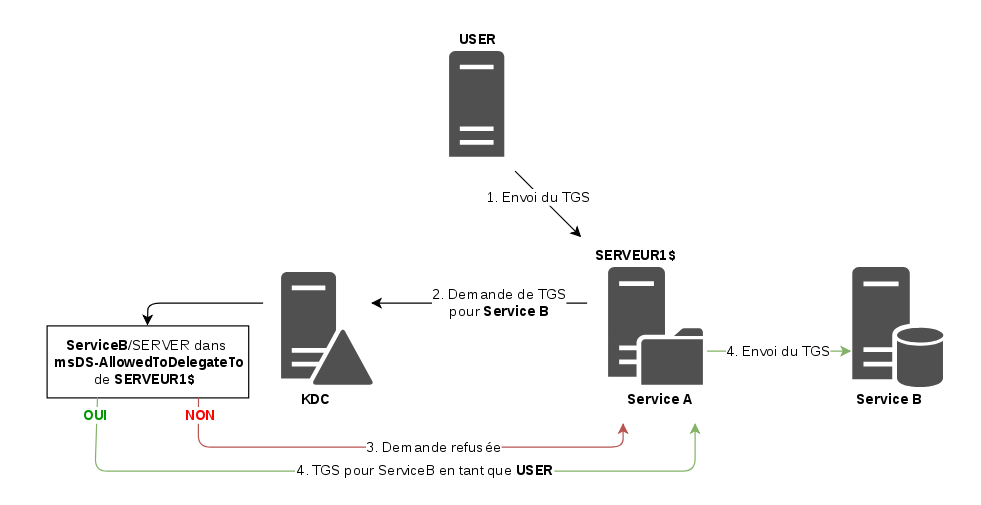
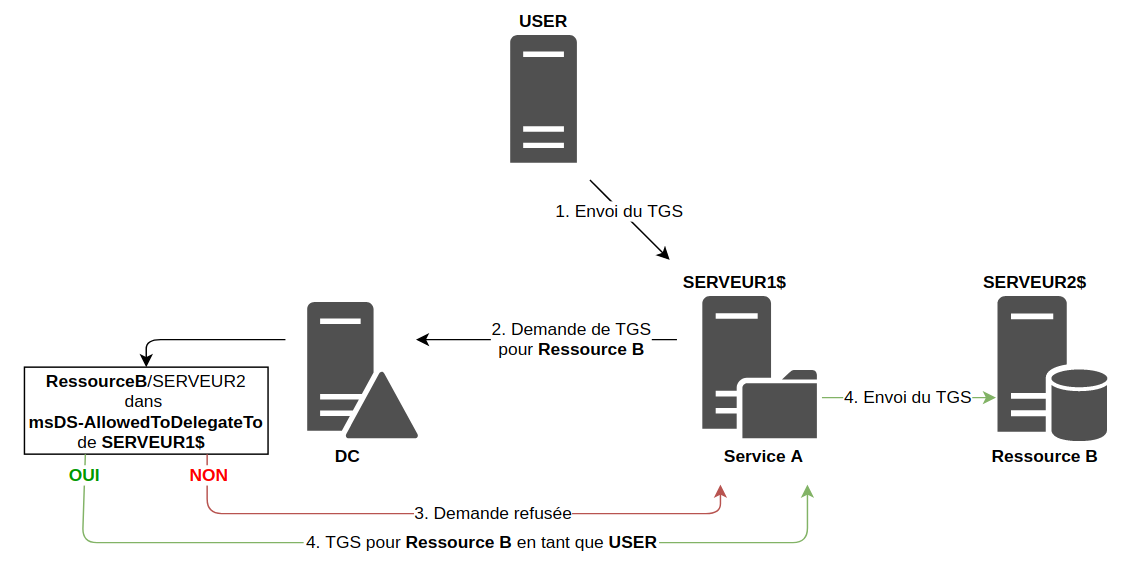
Update article about Delegation

diff --git a/_posts/2019-03-30-unconstrained-delegation.md b/_posts/2019-03-30-unconstrained-delegation.md
@@ -5,11 +5,13 @@ author: "Pixis"
 layout: post
 permalink: /constrained-unconstrained-delegation/
 disqus_identifier: 0000-0000-0000-00ab
-cover: assets/uploads/2019/02/impersonation.png
+cover: assets/uploads/2019/02/delegation_banner.png
 description: "Au sein d'un Active Directory, des services peuvent être utilisés par des utilisateurs. Il arrive parfois que ces services doivent en contacter d'autres, au nom de l'utilisateur, comme un service web pourrait avoir besoin de contacter un serveur de fichiers. Afin d'autoriser un service à accéder à un autre service au nom de l'utilisateur, une solution a été mise en place : La délégation Kerberos."
 tags:
   - "Active Directory"
   - Windows
+translation:
+  - en
 ---
 
 Au sein d'un Active Directory, des services peuvent être utilisés par des utilisateurs. Il arrive parfois que ces services doivent en contacter d'autres, au nom de l'utilisateur, comme un service web pourrait avoir besoin de contacter un serveur de fichiers. Afin d'autoriser un service à accéder à un autre service **au nom de l'utilisateur**, une solution a été mise en place (introduite à partir de Windows Server 2000) pour répondre à ce besoin : **La délégation Kerberos.**
@@ -34,9 +36,9 @@ La possibilité de relayer des identifiants peut être donnée à une machine ou
 
 Il existe aujourd'hui trois manières d'autoriser une machine ou un compte de service de prendre la place d'un utilisateur pour communiquer avec un ou plusieurs autre(s) service(s) : La **Unconstrained Delegation**, la **Constrained Delegation** et la **Resource Based Constrained Delegation**.
 
-### Kerberos Unconstrained Delegation - KUD
+### Kerberos Unconstrained Delegation
 
-Dans le cas d'une **Unconstrained Delegation** (KUD), le serveur ou le compte de service qui se voit attribuer ce droit est en mesure de se faire passer pour l'utilisateur pour communiquer avec **n'importe quel service** sur **n'importe quelle machine**.
+Dans le cas d'une **Unconstrained Delegation**, le serveur ou le compte de service qui se voit attribuer ce droit est en mesure de se faire passer pour l'utilisateur pour communiquer avec **n'importe quel service** sur **n'importe quelle machine**.
 
 C'est historiquement le seul choix qu'il y avait lors de l'instauration du principe de délégation, mais il a été complété par le principe de la **Constrained Delegation**.
 
@@ -47,9 +49,9 @@ Voici un exemple, dans mon lab, d'une machine qui est en **Unconstrained Delegat
 
 [![Unconstrained Delegation](/assets/uploads/2019/02/unconstrained_delegation.png)](/assets/uploads/2019/02/unconstrained_delegation.png)
 
-### Kerberos Constrained Delegation - KCD
+### Kerberos Constrained Delegation
 
-Si une machine ou un compte de service possède le flag **Constrained Delegation** (KCD), alors une liste de services autorisés sera associée à ce droit. Par exemple, dans le cas du serveur web de l'introduction, la machine hébergeant le serveur web aura le drapeau **KCD** avec comme précision que ce serveur ne peut relayer les informations de l'utilisateur qu'au service `CIFS` du serveur `SERVEUR01`.
+Si une machine ou un compte de service possède le flag **Constrained Delegation**, alors une liste de services autorisés sera associée à ce droit. Par exemple, dans le cas du serveur web de l'introduction, la machine hébergeant le serveur web aura le drapeau **Constrained Delegation** avec comme précision que ce serveur ne peut relayer les informations de l'utilisateur qu'au service `CIFS` du serveur `SERVEUR01`.
 
 [![Constrained Delegation](/assets/uploads/2019/02/constrained_delegation_schema.png)](/assets/uploads/2019/02/constrained_delegation_schema.png)
 
@@ -61,47 +63,42 @@ Dans mon lab, le serveur web est `WEB-SERVER-01` et celui qui possède le partag
 
 [![Delegation CIFS](/assets/uploads/2019/02/delegation_cifs.png)](/assets/uploads/2019/02/delegation_cifs.png)
 
-**\<note\>**
 
-De ma compréhension, le statut délégation ne peut être appliqué qu'à une machine ou un utilisateur de service (i.e. ayant au moins un attribut [SPN](/service-principal-name-spn)).
-- Dans le premier cas (Machine), cela implique que **tous** les services hébergés sur la machine peuvent relayer les informations de l'utilisateur.
-- Dans le deuxième cas (compte de service), cela veut dire que quel que soit le serveur sur lequel tournent les services exécutés par ce compte de service, ils -- ces services -- auront tous la possibilité de délégation.
+### Resource Based Kerberos Constrained Delegation - RBCD
 
-Je trouve ce comportement étonnant, j'aurais pensé qu'il était possible de décider que seul un service précis sur une machine précise pouvait relayer les informations de l'utilisateur, mais il me semble, en l'état, que cette granularité n'existe pas.
-
-Si ma compréhension est incorrecte, n'hésitez pas à me le remonter dans les commentaires ou sur [twitter](https://twitter.com/HackAndDo).
-
-**\</note\>**
-
-### Resource Based Kerberos Constrained Delegation - RBKCD
-
-Enfin, nous avons le cas de la **Resource Based Constrained Delegation** (RBKCD). Apparue avec Windows Server 2012, cette solution permet de palier à quelques problèmes liés à la **KCD** (Responsabilité, délégation inter-domaines, ...). Sans trop aller dans les détails, la responsabilité de la délégation est déplacée. Alors que dans **KCD**, c'est au niveau du serveur qui délègue qu'on indique les [SPN](/service-principal-name-spn) autorisés, dans le cas du **RBKCD**, c'est au niveau des services finaux qu'on indique la liste des services qui peuvent communiquer avec eux via délégation. Ainsi, le schéma est le suivant :
+Enfin, nous avons le cas de la **Resource Based Constrained Delegation** (RBCD). Apparue avec Windows Server 2012, cette solution permet de palier à quelques problèmes liés à la délégation contrainte classique (Responsabilité, délégation inter-domaines, ...). Sans trop aller dans les détails, la responsabilité de la délégation est déplacée. Alors que dans délégation contrainte, c'est au niveau du serveur qui délègue qu'on indique la liste des [SPN](/service-principal-name-spn) autorisés, dans le cas du **RBCD**, c'est au niveau des services finaux qu'on indique la liste des services qui peuvent communiquer avec eux via délégation. Ainsi, le schéma est le suivant :
 
 [![Resource Based Constrained Delegation](/assets/uploads/2019/02/resource_based_constrained_delegation_schema.png)](/assets/uploads/2019/02/resource_based_constrained_delegation_schema.png)
 
-La responsabilité est déplacée, c'est au niveau du serveur qui reçoit les connexions avec délégation que se trouve l'information de si oui ou non cette délégation est acceptée.
+La responsabilité est déplacée, c'est au niveau de la ressource qui reçoit les connexions avec délégation que se trouve l'information de si oui ou non cette délégation est acceptée.
 
-En d'autres termes, c'est le service final qui dit "j'autorise cette liste de compte [...] à s'authentifier chez moi au nom d'un utilisateur".
+En d'autres termes, c'est la ressource finale qui dit "j'autorise cette liste de comptes [...] à s'authentifier chez moi au nom d'un utilisateur".
 
 ## Détails techniques
 
-Maintenant que le principe est compris (du moins je l'espère), nous allons détailler un peu ce process. Concrètement, comment est-ce qu'une machine ou un compte peut se faire passer pour un utilisateur auprès d'un service ? C'est ce que nous allons voir maintenant. Les détails entre les différentes techniques sont relativement différents, c'est pourquoi chacune d'entre elle sera expliquée séparemment. Accrochez vous, *it's gonna get dirty*.
+Maintenant que le principe est compris (du moins je l'espère), nous allons détailler un peu ce process. Concrètement, comment est-ce qu'une machine ou un compte peut se faire passer pour un utilisateur auprès d'une ressource ? C'est ce que nous allons voir maintenant. Les détails entre les différentes techniques sont relativement différents, c'est pourquoi chacune d'entre elle sera expliquée séparemment. Accrochez vous, *it's gonna get dirty*.
 
-### Kerberos Unconstrained Delegation - KUD
+### Kerberos Unconstrained Delegation 
 
 Comme nous l'avons vu, dans ce cas, le serveur ou le compte de service peut s'authentifier au nom de l'utilisateur auprès de n'importe quel autre service. Pour que cela soit possible, il faut deux prérequis :
 
-* Le premier est que le compte qui veut déléguer une authentification possède le drapeau `ADS_UF_TRUSTED_FOR_DELEGATION` présent dans [ADS_USER_FLAG_ENUM](https://docs.microsoft.com/en-us/windows/desktop/api/iads/ne-iads-ads_user_flag). Pour pouvoir changer cette information, il faut avoir le droit `SeEnableDelegationPrivilege` qui est la plupart du temps seulement existant pour les administrateurs de domaine. Voici comment ce drapeau est placé sur le compte (machine ou compte de service):
+* Le premier est que le compte qui veut déléguer une authentification possède le drapeau `TRUSTED_FOR_DELEGATION` dans la liste des drapeaux [UAC - User Account Control](https://docs.microsoft.com/en-us/windows/win32/adschema/a-useraccountcontrol?redirectedfrom=MSDN). Pour pouvoir changer cette information sur un compte de service, il faut avoir le droit `SeEnableDelegationPrivilege` qui est la plupart du temps seulement existant pour les administrateurs de domaine. Voici comment ce drapeau est placé sur le compte (machine ou compte de service):
 
 [![Unconstrained Delegation](/assets/uploads/2019/02/unconstrained_delegation.png)](/assets/uploads/2019/02/unconstrained_delegation.png)
 
+Une fois placé, nous pouvons voir les drapeaux UAC et constater que `TRUSTED_FOR_DELEGATION` est bien présent.
 
-* Le deuxième est que le compte utilisateur qui va être relayé soit effectivement "relayable". Pour cela, il **ne faut pas** faut que le drapeau [ADS_UF_NOT_DELEGATED](https://docs.microsoft.com/en-us/windows/desktop/api/iads/ne-iads-ads_user_flag) soit positionné. Par défaut, aucun compte de l'AD n'a ce drapeau de positionné, ils sont donc tous "relayables".
+[![Unconstrained Delegation UAC](/assets/uploads/2020/04/UAC_UD.png)](/assets/uploads/2020/04/UAC_UD.png)
 
-Concrètement, lors des échanges avec le contrôleur de domaine tels que décrits dans l'article [Kerberos en Active Directory](/kerberos), lorsque l'utilisateur fait une demande de TGS ([KRB_TGS_REQ](/kerberos/#krb_tgs_req)), il précisera le [SPN](/service-principal-name-spn) du service qu'il souhaite consommer. C'est à ce moment que le contrôleur de domaine va chercher les deux prérequis :
 
-* Est-ce que le drapeau `ADS_UF_TRUSTED_FOR_DELEGATION` est positionné dans les attributs du compte associé au [SPN](/service-principal-name-spn) 
-* Est-ce que le drapeau `ADS_UF_NOT_DELEGATED` n'est **pas** positionné pour l'utilisateur qui fait la demande
+* Le deuxième est que le compte utilisateur qui va être relayé soit effectivement "relayable". Pour cela, il **ne faut pas** faut que le drapeau [NOT_DELEGATED](https://docs.microsoft.com/en-us/windows/desktop/api/iads/ne-iads-ads_user_flag) soit positionné. Par défaut, aucun compte de l'AD n'a ce drapeau de positionné, ils sont donc tous "relayables".
+
+[![Not delegated flag unset](/assets/uploads/2020/04/UAC_user_not_delegated.png)](/assets/uploads/2020/04/UAC_user_not_delegated.png)
+
+Concrètement, lors des échanges avec le contrôleur de domaine tels que décrits dans l'article [Kerberos en Active Directory](/kerberos), lorsque l'utilisateur fait une demande de TGS ([KRB_TGS_REQ](/kerberos/#krb_tgs_req)), il précisera le [SPN](/service-principal-name-spn) du service qu'il souhaite utiliser. C'est à ce moment que le contrôleur de domaine va chercher les deux prérequis :
+
+* Est-ce que le drapeau `TRUSTED_FOR_DELEGATION` est positionné dans les attributs du compte associé au [SPN](/service-principal-name-spn) 
+* Est-ce que le drapeau `NOT_DELEGATED` n'est **pas** positionné pour l'utilisateur qui fait la demande
 
 Si les deux prérequis sont vérifiés, alors le contrôleur de domaine va répondre à l'utilisateur avec un [KRB_TGS_REQ](/kerberos/#krb_tgs_req) contenant les informations classiques, mais il va également intégrer dans sa réponse **une copie du TGT** de l'utilisateur, ainsi qu'une nouvelle clé de session associée.
 
@@ -111,7 +108,7 @@ Une fois en possession de ces éléments, l'utilisateur va continuer le processu
 
 [![TGT Memory](/assets/uploads/2019/02/tgt_memory.png)](/assets/uploads/2019/02/tgt_memory.png)
 
-En effet, maintenant en possession d'une copie du TGT de l'utilisateur ainsi que d'une clé de session valide, le service peut s'authentifier auprès de n'importe quel autre service au nom de l'utilisateur en faisant une demande de TGS au contrôleur de domaine, en lui fournissant ce TGT et en chiffrant un authentifiant avec la clé de session. C'est le principe de la **Unconstrained Delegation**.
+En effet, maintenant en possession d'une copie du TGT de l'utilisateur ainsi que d'une clé de session valide, le service peut s'authentifier auprès de n'importe quel autre service au nom de l'utilisateur en faisant une demande de TGS au contrôleur de domaine, en lui fournissant ce TGT et en chiffrant un authentifiant avec la clé de session. C'est le principe de la délégation sans contrainte, ou **Unconstrained Delegation**.
 
 Voici un schéma récapitulatif :
 
@@ -120,31 +117,44 @@ Voici un schéma récapitulatif :
 
 ### Kerberos Constrained Delegation
 
-Pour la **Constrained Delegation**, une liste de [SPN](/service-principal-name-spn) ou de comptes autorisés sera fournie pour indiquer les services/comptes acceptés pour la délégation. De ce fait, le processus n'est pas le même. Le service concerné ne sera pas en possession du TGT de l'utilisateur, sinon il n'y a aucun moyen de contrôler les authentifications du service. Un mécanisme différent est utilisé.
+Pour la délégation contrainte, ou **Constrained Delegation**, une liste de [SPN](/service-principal-name-spn) est fournie pour indiquer les ressources acceptées pour la délégation. De ce fait, le processus n'est pas le même. Le service concerné ne sera pas en possession du TGT de l'utilisateur, sinon il n'y a aucun moyen de contrôler ses authentifications. Un mécanisme différent est utilisé.
 
-Mettons nous dans le cas où l'utilisateur s'authentifie auprès du `Service A` puis que ce `Service A` doit s'authentifier auprès du `Service B` en tant que l'utilisateur.
+Mettons nous dans le cas où l'utilisateur s'authentifie auprès du `Service A` puis que ce `Service A` doit s'authentifier auprès de la ressource `Ressource B` en tant que l'utilisateur.
 
-L'utilisateur fait une requête de TGS, puis l'envoie au `Service A`. Ce service devant s'authentifier en tant que l'utilisateur auprès de `Service B`, il va demander un TGS au KDC au nom de l'utilisateur. Cette demande est régie par l'extension [S4U2Proxy](https://docs.microsoft.com/en-us/openspecs/windows_protocols/ms-sfu/bde93b0e-f3c9-4ddf-9f44-e1453be7af5a). Pour indiquer au contrôleur de domaine qu'il veut s'authentifier au nom de quelqu'un d'autre, deux attributs seront définis dans la demande de ticket [KRB_TGS_REQ](/kerberos/#krb_tgs_req) :
+L'utilisateur fait une requête de TGS, puis l'envoie au `Service A`. Ce service devant s'authentifier en tant que l'utilisateur auprès de `Ressource B`, il va demander un TGS au contrôleur de domaine au nom de l'utilisateur. Cette demande est régie par l'extension [S4U2Proxy](https://docs.microsoft.com/en-us/openspecs/windows_protocols/ms-sfu/bde93b0e-f3c9-4ddf-9f44-e1453be7af5a). Pour indiquer au contrôleur de domaine qu'il veut s'authentifier au nom de quelqu'un d'autre, deux attributs seront définis dans la demande de ticket [KRB_TGS_REQ](/kerberos/#krb_tgs_req) :
 
-* le champ `additional-tickets`, d'habitude vide, doit cette fois contenir le TGS de l'utilisateur en question (sous condition que le drapeau `ADS_UF_NOT_DELEGATED` ne soit **pas** positionné pour l'utilisateur qui fait la demande. Si c'était le cas, le TGS de l'utilisateur ne serait pas `forwardable`, et le contrôleur de domaine ne l'accepterait pas dans la suite du processus)
-* Le drapeau [cname-in-addl-tkt](https://docs.microsoft.com/en-us/openspecs/windows_protocols/ms-sfu/17b9af82-d45a-437d-a05c-79547fe969f5), qui doit être positionné pour indiquer au DC qu'il ne doit pas utiliser les informations du serveur, mais celle du ticket présent dans `additional-tickets`, c'est à dire les informations de l'utilisateur pour lequel le service veut se faire passer.
+* le champ `additional-tickets`, d'habitude vide, doit cette fois contenir le TGS de l'utilisateur en question (sous condition que le drapeau `NOT_DELEGATED` ne soit **pas** positionné pour l'utilisateur qui fait la demande. Si c'était le cas, le TGS de l'utilisateur ne serait pas `forwardable`, et le contrôleur de domaine ne l'accepterait pas dans la suite du processus)
+* Le drapeau [cname-in-addl-tkt](https://docs.microsoft.com/en-us/openspecs/windows_protocols/ms-sfu/17b9af82-d45a-437d-a05c-79547fe969f5), qui doit être positionné pour indiquer au contrôleur de domaine qu'il ne doit pas utiliser les informations du serveur, mais celles du ticket présent dans `additional-tickets`, c'est à dire les informations de l'utilisateur pour lequel le service veut se faire passer.
 
-C'est lors de cette demande que le contrôleur de domaine, en voyant ces informations, va vérifier que `Service A` a le droit de s'authentifier auprès de `Service B` au nom de l'utilisateur.
+C'est lors de cette demande que le contrôleur de domaine, en voyant ces informations, va vérifier que `Service A` a le droit de s'authentifier auprès de `Ressource B` au nom de l'utilisateur.
 
 #### Constrained Delegation - Classique
 
-Dans le cas classique de **Constrained Delegation** (donc quand l'information est située au niveau de `Service A`), cette information est présente dans l'attribut [msDS-AllowedToDelegateTo](https://docs.microsoft.com/en-us/openspecs/windows_protocols/ms-ada2/86261ca1-154c-41fb-8e5f-c6446e77daaa) **de l'objet (compte) demandeur**, donc de `Service A`, attribut qui spécifie la liste des [SPN](/service-principal-name-spn) autorisés pour la délégation. Par exemple ici l'attribut `msDS-AllowedToDelegateTo` contiendra `cifs/WEB-SERVER-02`.
+Dans le cas classique de **Constrained Delegation** (donc quand l'information est située au niveau de `Service A`), cette information est présente dans l'attribut [msDS-AllowedToDelegateTo](https://docs.microsoft.com/en-us/openspecs/windows_protocols/ms-ada2/86261ca1-154c-41fb-8e5f-c6446e77daaa) **de l'objet (compte) demandeur**, donc de `Service A`, attribut qui spécifie la liste des [SPN](/service-principal-name-spn) autorisés pour la délégation.
 
 [![Delegation CIFS](/assets/uploads/2019/02/delegation_cifs.png)](/assets/uploads/2019/02/delegation_cifs.png)
 
-Si le [SPN](/service-principal-name-spn) cible est bien présent, alors le KDC renvoie un TGS valide, avec le nom de l'utilisateur, pour le service demandé. Voici un schéma récapitulatif :
+Par exemple ici l'attribut `msDS-AllowedToDelegateTo` contiendra `cifs/WEB-SERVER-02`.
+
+[![allowedToDelegateTo](/assets/uploads/2020/04/allowedToDelegateTo.png)](/assets/uploads/2020/04/allowedToDelegateTo.png)
+
+
+Si le [SPN](/service-principal-name-spn) cible est bien présent, alors le contrôleur de domaine renvoie un TGS valide, avec le nom de l'utilisateur, pour le service demandé. Voici un schéma récapitulatif :
 
 [![Constrained Delegation Detailed](/assets/uploads/2019/02/constrained_delegation_schema_detailed.png)](/assets/uploads/2019/02/constrained_delegation_schema_detailed.png)
 
 
 #### Constrained Delegation - Resource Based
 
-Le KDC va cette fois aller voir les attributs de **Service B** (et non plus de `Service A`). Il va vérifier que le compte associé à `Service A` est bien présent dans l'attribut [msDS-AllowedToActOnBehalfOfOtherIdentity](https://docs.microsoft.com/en-us/openspecs/windows_protocols/ms-ada2/cea4ac11-a4b2-4f2d-84cc-aebb4a4ad405) du compte lié à `Service B`.
+Le contrôleur de domaine va cette fois aller voir les attributs de **Ressource B** (et non plus de `Service A`). Il va vérifier que le compte associé à `Service A` est bien présent dans l'attribut [msDS-AllowedToActOnBehalfOfOtherIdentity](https://docs.microsoft.com/en-us/openspecs/windows_protocols/ms-ada2/cea4ac11-a4b2-4f2d-84cc-aebb4a4ad405) du compte lié à `Ressource B`.
+
+Pour mettre en place de la délégation sans contrainte basée sur une ressource, il faut le faire via Powershell.
+
+[![Set RBCD](/assets/uploads/2020/04/set_rbcd.png)](/assets/uploads/2020/04/set_rbcd.png)
+
+Nous ajoutons `WEB-SERVER-01` à la liste de confiance de `WEB-SERVER-02`. Le contenu de l'attribut **msDS-AllowedToActOnBehalfOfOtherIdentity** est alors mis à jour.
+
+Voici le schéma récapitulant le fonctionnement de RBCD.
 
 [![Resource Based Constrained Delegation Detailed](/assets/uploads/2019/02/resource_based_constrained_delegation_schema_detailed.png)](/assets/uploads/2019/02/resource_based_constrained_delegation_schema_detailed.png)
 
@@ -156,24 +166,29 @@ Si vous êtes encore là et que vous avez bien suivi, vous aurez remarqué que n
 
 C'est pourquoi il y a une étape supplémentaire, possible grâce à l'extension [S4U2Self](https://docs.microsoft.com/en-us/openspecs/windows_protocols/ms-sfu/02636893-7a1f-4357-af9a-b672e3e3de13), que `Service A` doit effectuer. Cette étape lui permet d'obtenir un TGS pour un utilisateur **choisi arbitrairement**. Pour cela, il effectue une demande de TGS classique ([KRB_TGS_REQ](/kerberos/#krb_tgs_req)) sauf qu'au lieu de mettre son nom à lui dans le bloc `PA-FOR-USER` (présent dans la partie préauthentification), il met le nom d'un utilisateur **qu'il choisit**.
 
-Evidemment, on pourrait croire que c'est une capacité très puissante et dangereuse puisqu'en fait, pour tous services `S` et `T` pour lesquels il y aurait une délégation possible de `S` vers `T`, le `Service S` pourrait se faire passer pour n'importe quel utilisateur auprès de `Service T`. Heureusement, ce n'est pas le cas. En effet, si le drapeau [ADS_UF_TRUSTED_TO_AUTHENTICATE_FOR_DELEGATION](https://docs.microsoft.com/en-us/windows/desktop/api/iads/ne-iads-ads_user_flag) n'est pas positionné sur l'objet associé au `Service S`, alors le ticket qu'il récupèrera ne sera pas tranférable (*forwardable*) et ne pourra donc pas être utilisé pour une délégation contrainte classique. Il existe un cas particulier pour la délégation Resource-Based, dont nous parlerons dans un autre article.
+Cette capacité à gérer une **transition de protocole** n'est acceptée par le contrôleur de domaine que si elle a explicitement été accordée au compte de service voulant gérer cette délégation. C'est ici, dans la gestion des délégation, qu'un administrateur peut choisir une délégation contrainte en utilisant uniquement Kerberos, donc sans transition de protocole, ou pouvant utiliser n'importe quel protocole, autorisant ainsi la **transition de protocole**.
 
-Pour que le compte puisse avoir ce drapeau, il faut le préciser ici dans l'interface graphique :
+[![Protocol transition](/assets/uploads/2020/04/protocol_transition.png)](/assets/uploads/2020/04/protocol_transition.png)
 
-[![Drapeau S4U2Self](/assets/uploads/2019/02/s4u2self_gui.png)](/assets/uploads/2019/02/s4u2self_gui.png)
+Dans le premier cas, le drapeau **TRUSTED_FOR_DELEGATION** qui est positionné sur le compte, et le service ne peut que relayer les authentification kerberos. Il ne peut pas utiliser l'extension S4U2Self pour créer un ticket factice.
 
-Attention, le schéma récapitulatif se complique, mais j'espère qu'il reste relativement clair.
+Dans le deuxième cas, c'est le drapeau **TRUSTED_TO_AUTHENTICATE_FOR_DELEGATION** qui est positionné. Si c'est le cas, alors le service ayant cette capacité **peut se faire passer pour n'importe qui** auprès des services présents dans sa liste via l'extension **S4U2Self**.
+
+Attention, le schéma de la délégation contrainte se complique un peu, mais j'espère qu'il reste relativement clair.
 
 [![S4U2Self](/assets/uploads/2019/02/s4u2self.png)](/assets/uploads/2019/02/s4u2self.png)
 
-
-D'expérience, il est rare de trouver des comptes au sein d'un domaine qui possèdent ce drapeau. Si cependant un compte de ce type est compromis, alors tous les services auxquels ce compte est en droit de s'authentifier via délégation seront également compromis, puisque l'attaquant peut créer des tickets de service au nom d'utilisateurs arbitraires, notamment des utilisateurs administrateurs des services ciblés.
+Si un compte de ce type est compromis, alors tous les services auxquels ce compte est en droit de s'authentifier via délégation seront également compromis, puisque l'attaquant peut créer des tickets de service au nom d'utilisateurs arbitraires, notamment des utilisateurs administrateurs des services ciblés.
 
 ## Conclusion
 
-Je pensais faire un article qui allait décrire le principe de Constrained et Unconstrained Delegation ainsi que les attaques associées, cependant les explications sont beaucoup plus denses que prévues, ainsi cet article reste consacré à l'explication. Les attaques associées seront présentées dans d'autres articles, que je citerai ici, au fil de leurs sorties.
+Je pensais faire un article qui allait décrire le principe de la délégation kerberos ainsi que les attaques associées, cependant les explications sont beaucoup plus denses que prévues, ainsi cet article reste consacré à l'explication. Les attaques associées seront présentées dans d'autres articles.
 
-* [Unconstrained Delegation - Risques](/unconstrained-delegation-attack)
+Pour résumer, il existe trois types de délégation :
+
+1. **Délégation sans contrainte** : Dans ce cas de figure, le client envoie une copie de son TGT à un service, et ce service pour l'utiliser pour se faire passer pour le client auprès de qui il souhaite. Seul un administrateur peut appliquer cette option
+2. **Délégation contrainte** : Une liste de ressources est imposée au service qui souhaitera déléguer une authentification. Si par ailleurs la **transition de protocole** est autorisée, alors le service peut se faire passer pour n'importe qui auprès des ressources présentes dans sa liste. Quoiqu'il en soit, seul un administrateur peut appliquer cette option.
+3. **Délégation contrainte basée sur les ressources** : C'est au niveau de la ressource finale qu'il y a une liste de confiance. Tous les comptes présents dans cette liste peuvent déléguer une authentification et accéder à la ressource. Les ressources sont maitres de leur liste, elles peuvent les modifier comme bon leur semble.
 
 Si vous avez des questions ou remarques, n'hésitez pas, je suis tout ouïe.
 
